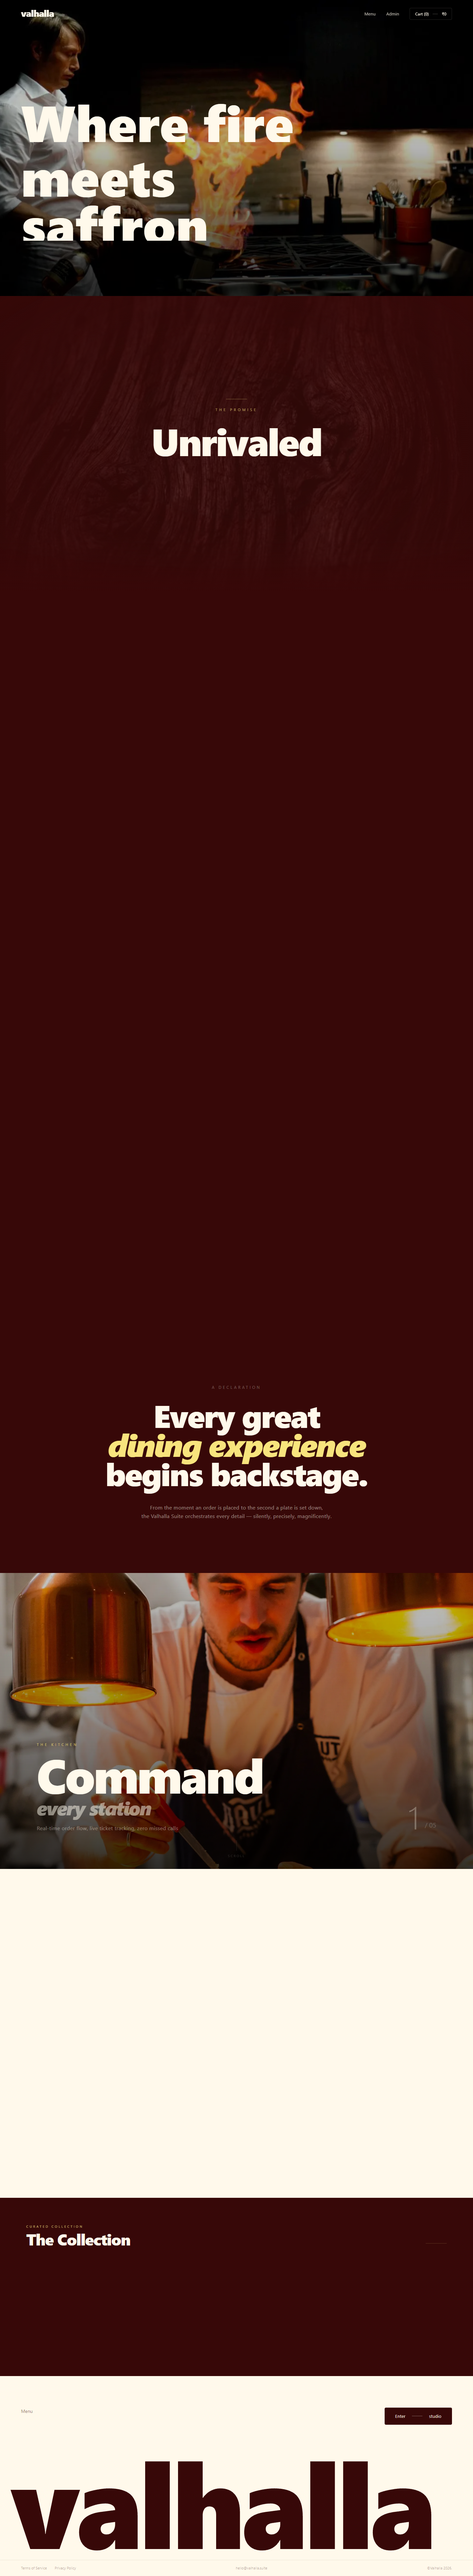
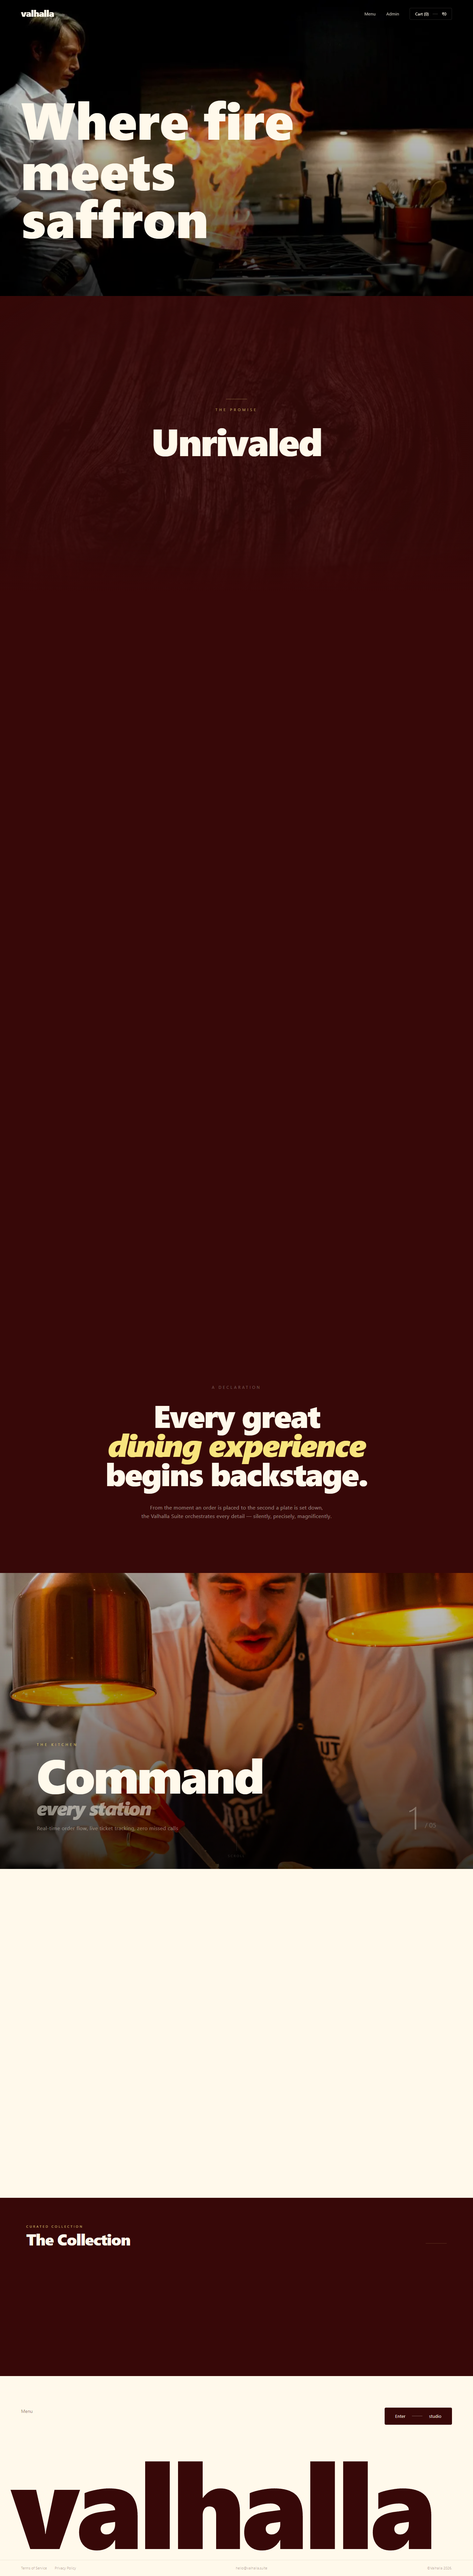
fix(frontend): add CORS to backend and connect frontend direct to menu-service

Changed region(s): [[0.0312, 0.0312, 0.4375, 0.0935], [0.5625, 0.0312, 0.625, 0.0623], [0.4688, 0.0312, 0.5, 0.0623]]

diff --git a/menu-service/main.py b/menu-service/main.py
@@ -16,6 +16,15 @@ models.Base.metadata.create_all(bind=engine)
 
 app = FastAPI()
 
+from fastapi.middleware.cors import CORSMiddleware
+
+app.add_middleware(
+    CORSMiddleware,
+    allow_origins=["*"],
+    allow_credentials=True,
+    allow_methods=["*"],
+    allow_headers=["*"],
+)
 from prometheus_fastapi_instrumentator import Instrumentator
 
 Instrumentator().instrument(app).expose(app)

diff --git a/auth-service/main.py b/auth-service/main.py
@@ -15,6 +15,15 @@ Base.metadata.create_all(bind=engine)
 
 app = FastAPI()
 
+from fastapi.middleware.cors import CORSMiddleware
+
+app.add_middleware(
+    CORSMiddleware,
+    allow_origins=["*"],
+    allow_credentials=True,
+    allow_methods=["*"],
+    allow_headers=["*"],
+)
 from prometheus_fastapi_instrumentator import Instrumentator
 from prometheus_client import Counter
 
